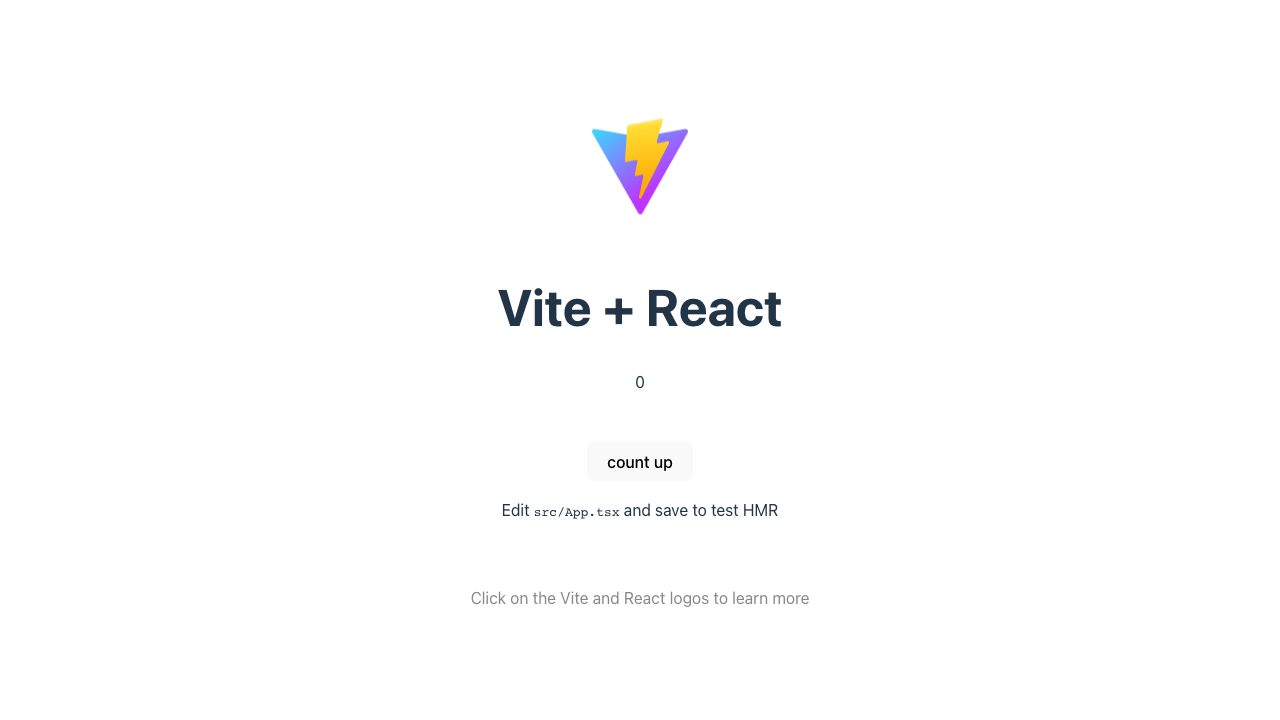
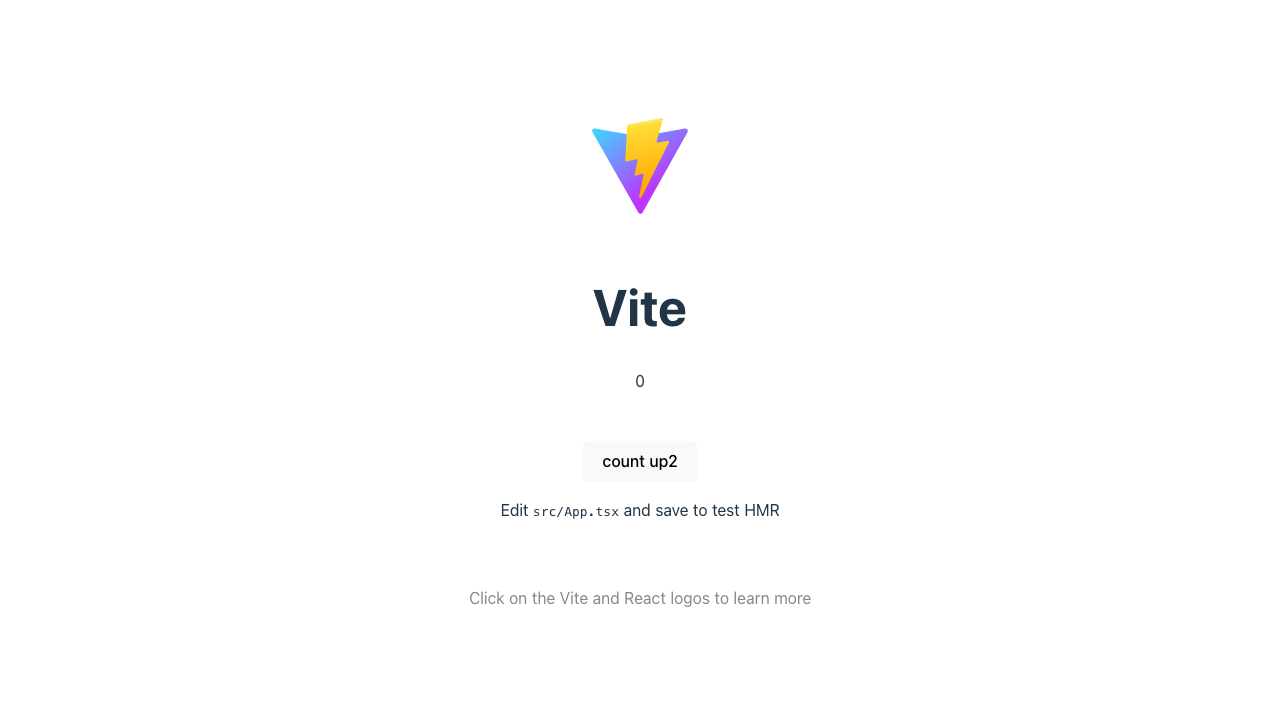
feat: Changed text.

diff --git a/src/App.tsx b/src/App.tsx
@@ -12,11 +12,11 @@ function App() {
           <img src={viteLogo} className="logo" alt="Vite logo" />
         </a>
       </div>
-      <h1>Vite + React</h1>
+      <h1>Vite</h1>
       <p data-testid="count">{count}</p>
       <div className="card">
         <button type="button" data-testid="count-up-button" onClick={() => setCount((count) => count + 1)}>
-        count up
+        count up2
         </button>
         <p>
           Edit <code>src/App.tsx</code> and save to test HMR
